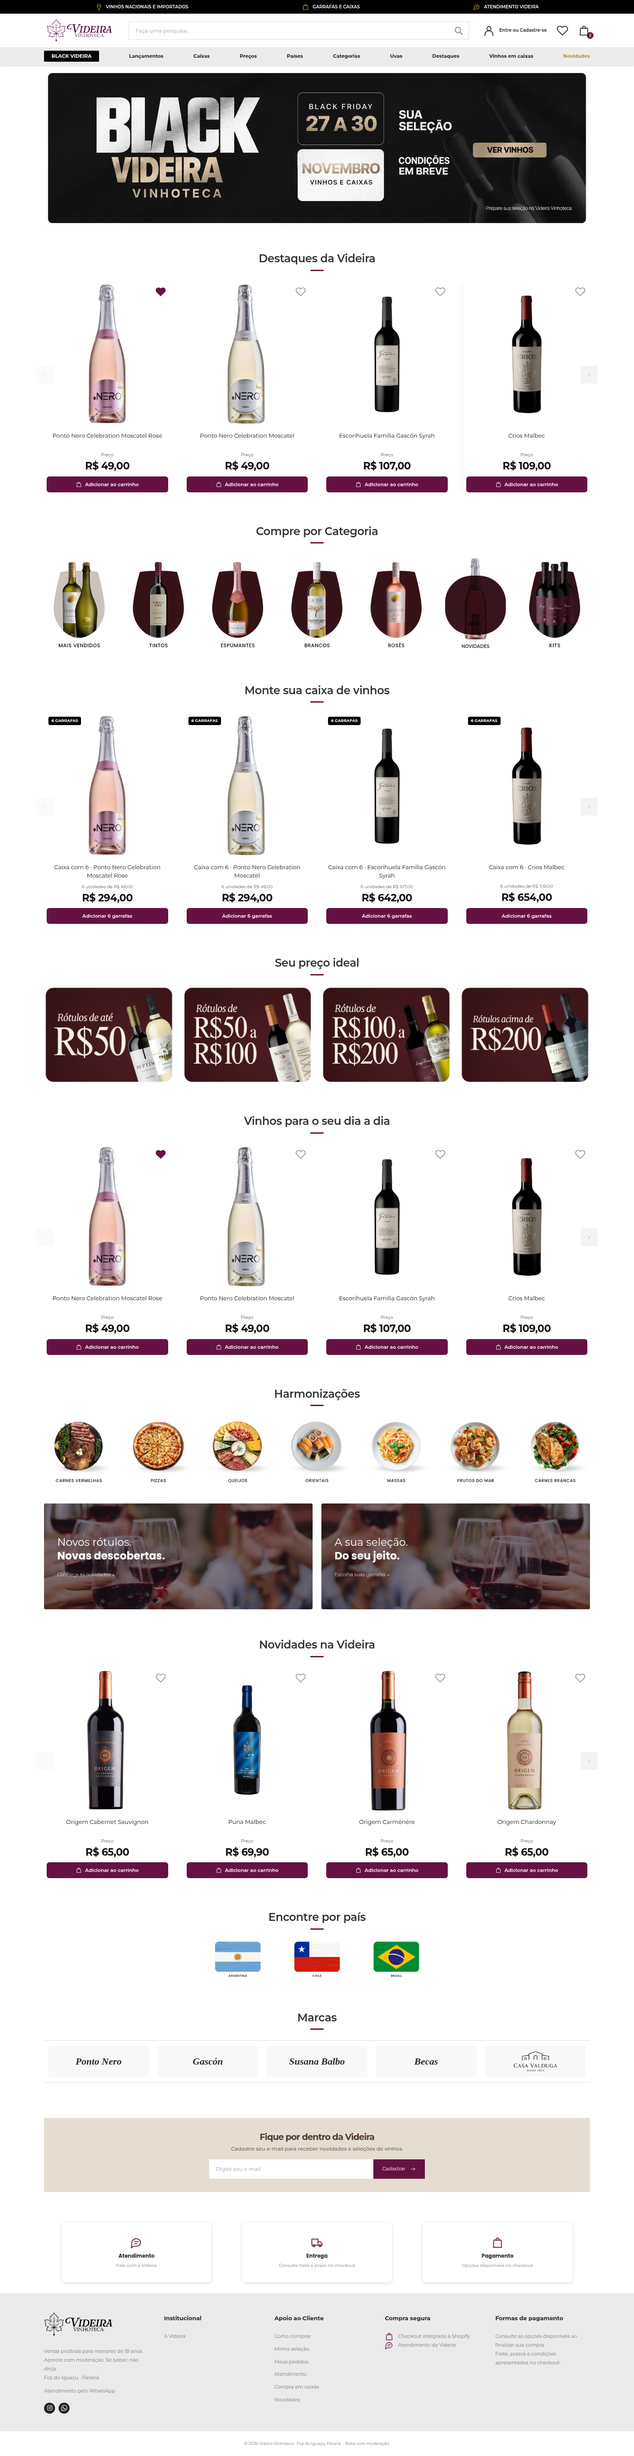
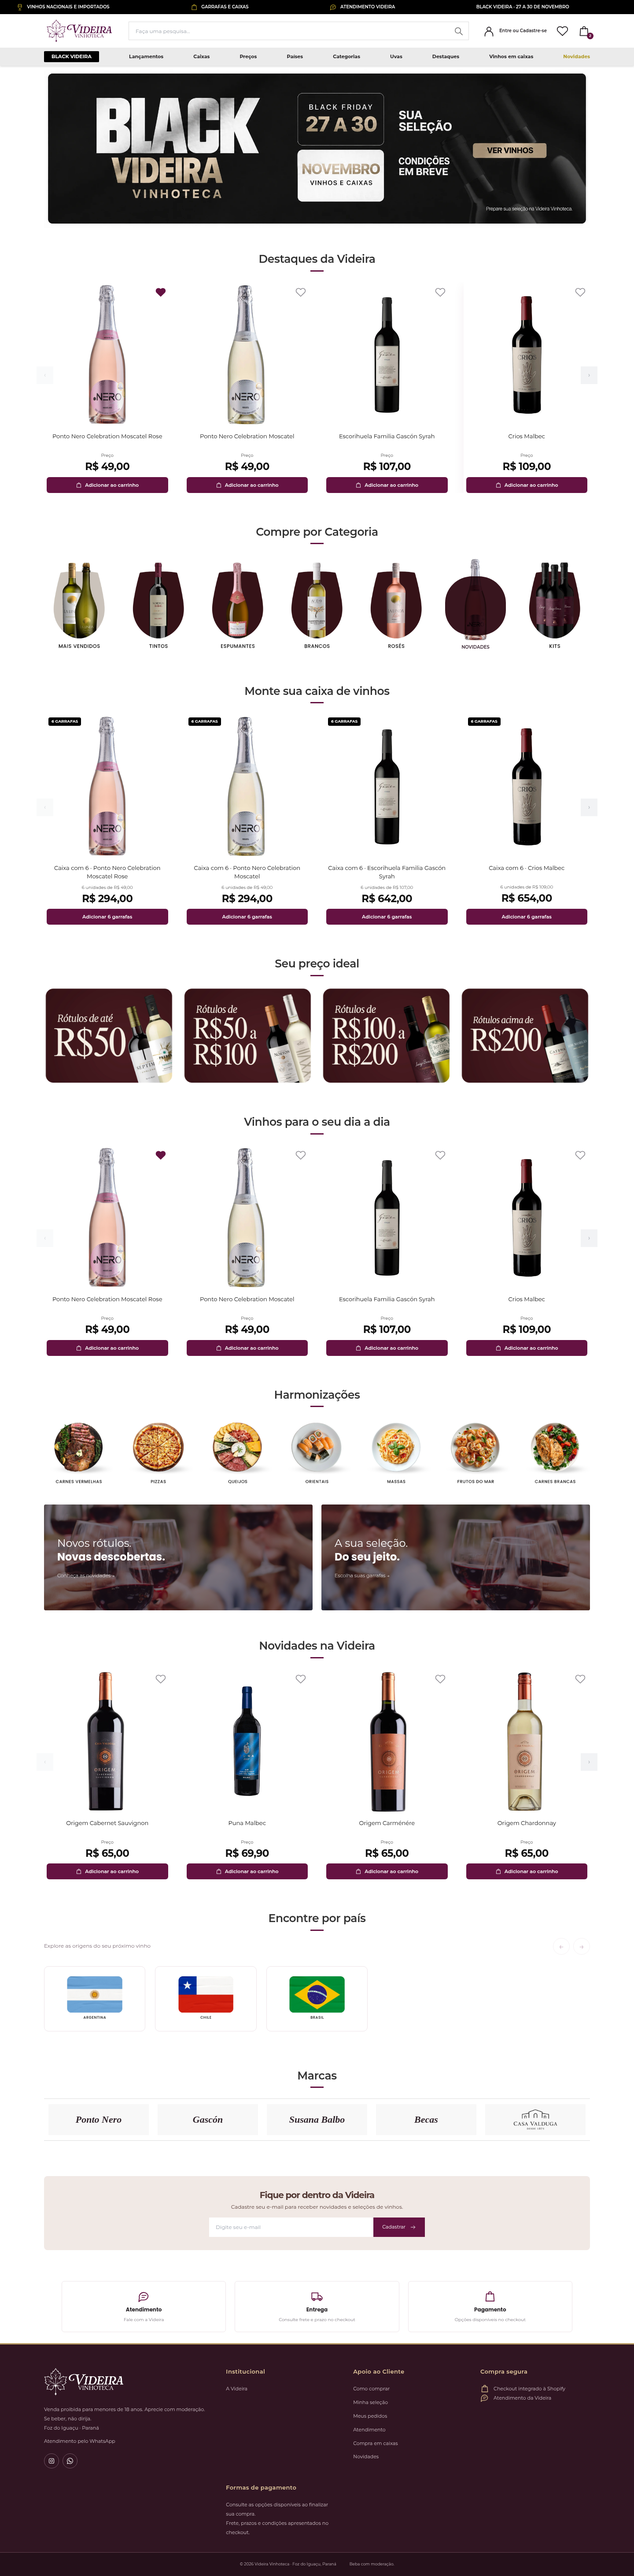
Animate announcements, add extensible country carousel and traditional responsive Videira footer

diff --git a/docs/preview.html b/docs/preview.html
@@ -24,7 +24,7 @@
 
 <script src="preview.js" defer></script></head><body class="storefront zip-videira template-index">
 <a class="sf-skip" href="#conteudo">Pular para o conteúdo</a>
-<div class="shopify-section shopify-section-group-header-group nv-header-section"><div class="zip-perks"><div class="zip-container"><span>
+<div class="shopify-section shopify-section-group-header-group nv-header-section"><div class="zip-perks" aria-label="Informações da Videira"><div class="zip-marquee"><div class="zip-marquee-track"><div class="zip-marquee-set"><span>
 <svg viewBox="0 0 24 24" fill="none" stroke="currentColor" stroke-width="1.6" stroke-linecap="round" stroke-linejoin="round" aria-hidden="true"><path d="M7 3h10l1 7a6 6 0 0 1-12 0l1-7ZM12 16v6m-4 0h8M6 9h12"/></svg>
 
  VINHOS NACIONAIS E IMPORTADOS</span><span>
@@ -33,7 +33,16 @@
  GARRAFAS E CAIXAS</span><span>
 <svg viewBox="0 0 24 24" fill="none" stroke="currentColor" stroke-width="1.6" stroke-linecap="round" stroke-linejoin="round" aria-hidden="true"><path d="M20 11a8 8 0 0 1-8 8H6l-4 3 1-7a8 8 0 1 1 17-4Z"/><path d="M8 10h8M8 14h5"/></svg>
 
- ATENDIMENTO VIDEIRA</span></div></div>
+ ATENDIMENTO VIDEIRA</span><span>BLACK VIDEIRA · 27 A 30 DE NOVEMBRO</span></div><div class="zip-marquee-set" aria-hidden="true"><span>
+<svg viewBox="0 0 24 24" fill="none" stroke="currentColor" stroke-width="1.6" stroke-linecap="round" stroke-linejoin="round" aria-hidden="true"><path d="M7 3h10l1 7a6 6 0 0 1-12 0l1-7ZM12 16v6m-4 0h8M6 9h12"/></svg>
+
+ VINHOS NACIONAIS E IMPORTADOS</span><span>
+<svg viewBox="0 0 24 24" fill="none" stroke="currentColor" stroke-width="1.6" stroke-linecap="round" stroke-linejoin="round" aria-hidden="true"><path d="M5 7h14l1 14H4L5 7Z"/><path d="M9 8V6a3 3 0 0 1 6 0v2"/></svg>
+
+ GARRAFAS E CAIXAS</span><span>
+<svg viewBox="0 0 24 24" fill="none" stroke="currentColor" stroke-width="1.6" stroke-linecap="round" stroke-linejoin="round" aria-hidden="true"><path d="M20 11a8 8 0 0 1-8 8H6l-4 3 1-7a8 8 0 1 1 17-4Z"/><path d="M8 10h8M8 14h5"/></svg>
+
+ ATENDIMENTO VIDEIRA</span><span>BLACK VIDEIRA · 27 A 30 DE NOVEMBRO</span></div></div></div></div>
 <header class="zip-header vn-header"><div class="zip-header-middle zip-container"><a class="zip-logo" href="/" aria-label="Videira Vinhoteca — início">
 <img src="../assets/videira-logo.svg" alt="Videira Vinhoteca" width="180" height="63">
 
@@ -670,8 +679,8 @@ Adicionar ao carrinho</button></form>
 
 </div></div></div><button type="button" class="zip-shelf-next" data-carousel-step="1" aria-label="Próximos vinhos">›</button></div></section>
 
-<section id="paises" class="zip-countries zip-container"><div class="title-ctn zip-title"><h2 class="bg-title"><span>Encontre por país</span></h2></div>
-<div><a href="/search?type=product&amp;q=vendor%3A%22Gasc%C3%B3n%22+OR+vendor%3A%22Susana+Balbo%22+OR+vendor%3A%22Mosquita+Muerta%22+OR+vendor%3A%22Martino%22+OR+vendor%3A%22Puna%22"><img src="../assets/zip-argentina.webp" alt="Argentina" loading="lazy" width="500" height="350"></a><a href="/search?type=product&amp;q=vendor%3A%22Becas%22"><img src="../assets/zip-chile.webp" alt="Chile" loading="lazy" width="500" height="350"></a><a href="/search?type=product&amp;q=vendor%3A%22Casa+Valduga%22+OR+vendor%3A%22Ponto+Nero%22"><img src="../assets/zip-brasil.webp" alt="Brasil" loading="lazy" width="500" height="350"></a></div></section>
+<section id="paises" class="zip-countries zip-container" data-country-carousel><div class="title-ctn zip-title"><h2 class="bg-title"><span>Encontre por país</span></h2></div>
+<div class="zip-country-controls"><span>Explore as origens do seu próximo vinho</span><div><button type="button" data-country-prev aria-label="Países anteriores">←</button><button type="button" data-country-next aria-label="Próximos países">→</button></div></div><div class="zip-country-track" tabindex="0" aria-label="Países — deslize para explorar"><a href="/search?type=product&amp;q=vendor%3A%22Gasc%C3%B3n%22+OR+vendor%3A%22Susana+Balbo%22+OR+vendor%3A%22Mosquita+Muerta%22+OR+vendor%3A%22Martino%22+OR+vendor%3A%22Puna%22"><img src="../assets/zip-argentina.webp" alt="Argentina" loading="lazy" width="500" height="350"></a><a href="/search?type=product&amp;q=vendor%3A%22Becas%22"><img src="../assets/zip-chile.webp" alt="Chile" loading="lazy" width="500" height="350"></a><a href="/search?type=product&amp;q=vendor%3A%22Casa+Valduga%22+OR+vendor%3A%22Ponto+Nero%22"><img src="../assets/zip-brasil.webp" alt="Brasil" loading="lazy" width="500" height="350"></a></div></section>
 <section id="bodegas" class="zip-brands zip-container"><div class="title-ctn zip-title"><h2 class="bg-title"><span>Marcas</span></h2></div>
 <div><a href="/collections/vendors?q=Ponto%20Nero"><span>Ponto Nero</span></a><a href="/collections/vendors?q=Gasc%C3%B3n"><span>Gascón</span></a><a href="/collections/vendors?q=Susana%20Balbo"><span>Susana Balbo</span></a><a href="/collections/vendors?q=Becas"><span>Becas</span></a><a href="/collections/vendors?q=Casa%20Valduga"><img src="../assets/zip-casa-valduga-v2.webp" alt="Casa Valduga" width="270" height="100" loading="lazy"></a><a href="/collections/vendors?q=Mosquita%20Muerta"><img src="../assets/zip-mosquita-muerta-v2.webp" alt="Mosquita Muerta" width="270" height="100" loading="lazy"></a><a href="/collections/vendors?q=Martino"><span>Martino</span></a><a href="/collections/vendors?q=Zuccardi"><span>Zuccardi</span></a><a href="/collections/vendors?q=Puna"><span>Puna</span></a></div></section>
 
@@ -692,8 +701,8 @@ Adicionar ao carrinho</button></form>
 
 <p><strong>Pagamento</strong><span>Opções disponíveis no checkout</span></p></div></div></section>
 
-<footer class="nv-footer"><div class="nv-footer-grid nv-container">
-<details class="zip-footer-group zip-footer-contact" open><summary>Contato</summary><div class="nv-footer-brand">
+<footer class="nv-footer nv-footer-traditional"><div class="nv-footer-grid nv-container">
+<section class="zip-footer-group zip-footer-contact"><h2 class="nv-sr-only">Videira Vinhoteca</h2><div class="nv-footer-brand">
 <img src="../assets/videira-logo.svg" alt="Videira Vinhoteca" width="180" height="63">
 
 <p>Venda proibida para menores de 18 anos. Aprecie com moderação. Se beber, não dirija.</p><small>Foz do Iguaçu · Paraná</small><a href="https://wa.me/5545999056277" target="_blank" rel="noopener">Atendimento pelo WhatsApp</a><div class="nv-footer-social"><a href="https://www.instagram.com/videiravinhoteca/" target="_blank" rel="noopener" aria-label="Instagram da Videira">
@@ -702,17 +711,17 @@ Adicionar ao carrinho</button></form>
 </a><a href="https://wa.me/5545999056277" target="_blank" rel="noopener" aria-label="WhatsApp da Videira">
 <svg viewBox="0 0 16 16" fill="currentColor" aria-hidden="true"><path d="M13.601 2.326A7.85 7.85 0 0 0 8.026 0C3.691 0 .16 3.532.158 7.869a7.84 7.84 0 0 0 1.05 3.933L.09 15.91l4.208-1.103a7.86 7.86 0 0 0 3.725.95h.003c4.334 0 7.865-3.532 7.867-7.869a7.82 7.82 0 0 0-2.292-5.562ZM8.026 14.43h-.003a6.54 6.54 0 0 1-3.332-.912l-.239-.142-2.495.654.666-2.433-.155-.249a6.53 6.53 0 0 1-1.004-3.478c.002-3.617 2.946-6.56 6.565-6.56 1.753 0 3.402.684 4.641 1.923a6.52 6.52 0 0 1 1.921 4.644c-.002 3.617-2.946 6.56-6.565 6.56Zm3.6-4.915c-.197-.099-1.17-.578-1.351-.644-.181-.066-.313-.099-.444.099-.132.197-.51.644-.626.776-.115.132-.23.148-.428.049-.197-.099-.833-.307-1.586-.98-.586-.522-.981-1.166-1.096-1.364-.115-.197-.012-.304.086-.403.089-.088.197-.23.296-.345.099-.115.132-.197.197-.329.066-.132.033-.247-.016-.345-.049-.099-.444-1.071-.609-1.465-.16-.384-.322-.332-.444-.338l-.378-.007a.73.73 0 0 0-.526.247c-.181.197-.691.674-.691 1.645s.707 1.908.806 2.04c.099.132 1.393 2.128 3.375 2.984.471.203.839.324 1.126.415.473.151.904.13 1.244.079.38-.057 1.17-.478 1.335-.939.164-.46.164-.855.115-.938-.049-.082-.181-.132-.378-.23Z"/></svg>
 
-</a></div></div></details>
-<details class="zip-footer-group" open><summary>Institucional</summary><div><a href="/">A Videira</a></div></details>
-<details class="zip-footer-group" open><summary>Apoio ao Cliente</summary><div><a href="/collections/all">Como comprar</a><a href="/cart">Minha seleção</a><a href="/account">Meus pedidos</a><a href="https://wa.me/5545999056277" target="_blank" rel="noopener">Atendimento</a><a href="#caixas">Compra em caixas</a><a href="#novidades">Novidades</a></div></details>
-<details class="zip-footer-group" open><summary>Compra segura</summary><div class="zip-footer-security"><p>
+</a></div></div></section>
+<section class="zip-footer-group"><h2>Institucional</h2><div><a href="/">A Videira</a></div></section>
+<section class="zip-footer-group"><h2>Apoio ao Cliente</h2><div><a href="/collections/all">Como comprar</a><a href="/cart">Minha seleção</a><a href="/account">Meus pedidos</a><a href="https://wa.me/5545999056277" target="_blank" rel="noopener">Atendimento</a><a href="#caixas">Compra em caixas</a><a href="#novidades">Novidades</a></div></section>
+<section class="zip-footer-group"><h2>Compra segura</h2><div class="zip-footer-security"><p>
 <svg viewBox="0 0 24 24" fill="none" stroke="currentColor" stroke-width="1.6" stroke-linecap="round" stroke-linejoin="round" aria-hidden="true"><path d="M5 7h14l1 14H4L5 7Z"/><path d="M9 8V6a3 3 0 0 1 6 0v2"/></svg>
 
 <span>Checkout integrado à Shopify</span></p><p>
 <svg viewBox="0 0 24 24" fill="none" stroke="currentColor" stroke-width="1.6" stroke-linecap="round" stroke-linejoin="round" aria-hidden="true"><path d="M20 11a8 8 0 0 1-8 8H6l-4 3 1-7a8 8 0 1 1 17-4Z"/><path d="M8 10h8M8 14h5"/></svg>
 
-<span>Atendimento da Videira</span></p></div></details>
-<details class="zip-footer-group" open><summary>Formas de pagamento</summary><div><p>Consulte as opções disponíveis ao finalizar sua compra.</p><p>Frete, prazos e condições apresentados no checkout.</p></div></details>
+<span>Atendimento da Videira</span></p></div></section>
+<section class="zip-footer-group"><h2>Formas de pagamento</h2><div><p>Consulte as opções disponíveis ao finalizar sua compra.</p><p>Frete, prazos e condições apresentados no checkout.</p></div></section>
 </div><div class="nv-footer-bottom"><span>© 2026 Videira Vinhoteca · Foz do Iguaçu, Paraná</span><span>Beba com moderação.</span></div></footer>
 
 

diff --git a/assets/videira-zip.css b/assets/videira-zip.css
@@ -8,3 +8,11 @@ html{scroll-padding-top:155px}.storefront.zip-videira{padding:0!important;backgr
 @media(max-width:760px){.zip-videira .nv-newsletter-form{flex-direction:column!important}.zip-videira .nv-newsletter-form input[type=email]{width:100%;flex:auto}.zip-videira .nv-footer-grid{display:block;width:100%;padding:0}.zip-footer-group{border-bottom:1px solid #cfcbd0;padding:0}.zip-footer-group>summary,.zip-footer-contact>summary{display:flex;align-items:center;justify-content:space-between;font-size:12px;padding:22px 16px;margin:0}.zip-footer-group>summary:after{content:'+';font-size:20px;font-weight:400}.zip-footer-group[open]>summary:after{content:'−'}.zip-footer-group>div{padding:0 18px 22px}.zip-footer-contact .nv-footer-brand img{display:none}.zip-footer-group>div>a{font-size:11px}.zip-videira .nv-service-strip>.nv-container{width:calc(100% - 65px)}}
 
 .zip-category-row .zip-new-category{position:relative;display:flex;flex-direction:column;align-items:center;justify-content:flex-end;aspect-ratio:900/1254}.zip-new-category:before{content:'';position:absolute;inset:22% 7% 18%;background:#38151e;border-radius:45% 45% 43% 43%;z-index:0}.zip-category-row .zip-new-category img{position:relative;height:84%;width:100%;object-fit:contain;mix-blend-mode:multiply;z-index:1;aspect-ratio:auto}.zip-new-category span{position:relative;z-index:1;font:600 10px/1.3 Montserrat,sans-serif;height:12%;display:grid;place-items:center}@media(max-width:760px){.zip-new-category span{font-size:8px}}
+
+/* Videira: motion, expandable origins and traditional brand footer. */
+.zip-perks{overflow:hidden}.zip-marquee{width:100%;overflow:hidden}.zip-marquee-track{display:flex;width:max-content;animation:videira-ticker 38s linear infinite}.zip-marquee-set{display:flex;align-items:center;justify-content:space-around;gap:80px;min-width:100vw;padding:8px 40px}.zip-perks:hover .zip-marquee-track,.zip-perks:focus-within .zip-marquee-track{animation-play-state:paused}@keyframes videira-ticker{to{transform:translateX(-50%)}}
+.zip-country-controls{display:flex;justify-content:space-between;align-items:center;gap:20px;margin:-8px 0 22px;color:#7c6a74;font-size:12px}.zip-country-controls>div{display:flex;gap:8px}.zip-country-controls button{width:38px;height:38px;border:1px solid #ddcfd6;border-radius:50%;background:white;color:#651242;font-size:20px}.zip-country-controls button:disabled{opacity:.3;cursor:default}.zip-countries>.zip-country-track{display:flex;flex-wrap:nowrap;justify-content:flex-start;gap:22px;overflow-x:auto;scroll-snap-type:x mandatory;scrollbar-width:thin;scrollbar-color:#b9a0ad transparent;padding:4px 0 16px}.zip-country-track>a{flex:0 0 calc((100% - 88px)/5);width:auto;scroll-snap-align:start;border:1px solid #eee4e9;border-radius:10px;padding:18px;background:#fff;text-align:center;transition:border-color .2s,transform .2s}.zip-country-track>a:hover{border-color:#9d6483;transform:translateY(-3px)}.zip-country-track>a img{width:100%;height:110px;object-fit:contain}.zip-country-card strong,.zip-country-card>span{display:block}.zip-country-card strong{font-size:15px;margin-top:12px}.zip-country-card>span:last-child{font-size:10px;color:#856b79;margin-top:7px}.zip-country-monogram{display:grid!important;place-items:center;background:#f3edf0;color:#651242;border-radius:50%;width:90px;height:90px;margin:10px auto;font:500 30px Georgia,serif}
+.zip-videira .nv-footer-traditional{background:#301522;color:#f9f4f0;border-top:3px solid #b89a63;padding-top:0}.zip-videira .nv-footer-traditional .nv-footer-grid{display:grid;grid-template-columns:1.5fr 1fr 1fr 1fr;gap:40px;padding:52px 0 34px}.nv-footer-traditional .zip-footer-contact{grid-row:span 2}.nv-footer-traditional .zip-footer-group{border:0;padding:0}.nv-footer-traditional .zip-footer-group>div{padding:0}.zip-videira .nv-footer-traditional h2{font:600 13px/1.4 Montserrat,sans-serif!important;letter-spacing:.4px;color:#e3c99e;margin:0 0 20px}.nv-footer-traditional .nv-footer-brand img{filter:none;width:180px;height:65px;margin-bottom:20px;display:block}.zip-videira .nv-footer-traditional p,.zip-videira .nv-footer-traditional small,.zip-videira .nv-footer-traditional .zip-footer-group>div>a{color:#d0c0c8;font-size:11px;line-height:1.9}.nv-footer-traditional .zip-footer-group a:hover{color:#fff;text-decoration:underline}.nv-footer-traditional .nv-footer-social a{width:34px;height:34px;background:transparent;border:1px solid #725463}.nv-footer-traditional .zip-footer-security svg{color:#d8bd8d}.zip-videira .nv-footer-traditional .nv-footer-bottom{background:#24101a;border-top:1px solid #62414e;color:#c5b4bd;padding:20px;gap:30px}.zip-videira .nv-service-strip>.nv-container{gap:20px}.zip-videira .nv-service-strip>.nv-container>div{box-shadow:none;border:1px solid #eee5e9;border-radius:6px;min-height:110px}.zip-videira .nv-newsletter{border-radius:8px;background:#f1e9e5}
+@media(max-width:760px){.zip-marquee-set{gap:45px;min-width:max-content;padding:8px 24px}.zip-marquee-track{animation-duration:27s}.zip-country-controls{font-size:10px;margin:0 0 14px}.zip-country-controls button{width:32px;height:32px}.zip-countries>.zip-country-track{gap:12px;padding-bottom:12px}.zip-country-track>a{flex-basis:42%;padding:12px}.zip-country-track>a img{height:90px}.zip-country-card strong{font-size:13px}.zip-videira .nv-footer-traditional .nv-footer-grid{width:calc(100% - 40px);grid-template-columns:1fr 1fr;gap:30px 20px;padding:34px 0}.nv-footer-traditional .zip-footer-contact{grid-column:1/-1;grid-row:auto;border-bottom:1px solid #634451;padding-bottom:26px}.zip-videira .nv-footer-traditional h2{font-size:12px!important;margin-bottom:14px}.zip-videira .nv-footer-traditional .nv-footer-bottom{gap:7px;padding:20px}.zip-videira .nv-service-strip>.nv-container{width:calc(100% - 28px);grid-template-columns:repeat(3,minmax(0,1fr));gap:8px}.zip-videira .nv-service-strip>.nv-container>div{padding:14px 5px;min-height:118px;gap:6px}.nv-service-strip strong{font-size:10px}.nv-service-strip span{font-size:9px;line-height:1.5}.zip-double-banner{grid-template-columns:1fr;gap:12px}.zip-double-banner>a{height:175px}.zip-double-banner span{font-size:21px;left:22px}.zip-double-banner small{font-size:11px}.zip-videira .zip-shelf{padding-bottom:22px!important}}
+@media(prefers-reduced-motion:reduce){.zip-marquee-track{animation:none}.zip-marquee{overflow-x:auto}.zip-marquee-set[aria-hidden=true]{display:none}.zip-country-track>a{transition:none}}
+.zip-videira .zip-countries>.zip-country-track{flex-wrap:nowrap;justify-content:flex-start;overflow-x:auto;gap:22px}.zip-videira .zip-country-track>a{width:auto;flex-shrink:0}@media(max-width:760px){.zip-videira .zip-countries>.zip-country-track{gap:12px}}

diff --git a/assets/videira-store.js b/assets/videira-store.js
@@ -66,9 +66,18 @@
   document.addEventListener('shopify:section:load',update);
 })();
 (() => {
- const media=matchMedia('(max-width:760px)');
- const setFooter=()=>document.querySelectorAll('.zip-footer-group').forEach(group=>group.open=!media.matches);
- if(document.readyState==='loading')document.addEventListener('DOMContentLoaded',setFooter);else setFooter();
- media.addEventListener('change',setFooter);
- document.addEventListener('shopify:section:load',setFooter);
+ const initialize = (scope = document) => scope.querySelectorAll('[data-country-carousel]').forEach(section => {
+  if (section.dataset.ready) return;
+  section.dataset.ready = 'true';
+  const track = section.querySelector('.zip-country-track');
+  const prev = section.querySelector('[data-country-prev]');
+  const next = section.querySelector('[data-country-next]');
+  const update = () => { prev.disabled = track.scrollLeft < 2; next.disabled = track.scrollLeft + track.clientWidth >= track.scrollWidth - 2; };
+  const move = direction => track.scrollBy({left: direction * Math.max(180, track.clientWidth * .75), behavior: matchMedia('(prefers-reduced-motion: reduce)').matches ? 'instant' : 'smooth'});
+  prev.addEventListener('click', () => move(-1)); next.addEventListener('click', () => move(1));
+  track.addEventListener('scroll', update, {passive:true});
+  new ResizeObserver(update).observe(track); new MutationObserver(update).observe(track, {childList:true}); update();
+ });
+ if(document.readyState === 'loading') document.addEventListener('DOMContentLoaded', () => initialize()); else initialize();
+ document.addEventListener('shopify:section:load', event => initialize(event.target));
 })();

diff --git a/README.md b/README.md
@@ -19,3 +19,9 @@ Preços, variantes, estoque, carrinho e checkout usam Shopify. Favoritos ficam n
 - [Design](docs/design.md), [validação](docs/validacao.md) e [testes](tests/README.md).
 
 O ZIP contém somente pastas do tema. O repositório antigo Shopify-Videira não foi alterado.
+
+## Interação e adaptação
+
+A faixa superior desliza continuamente e respeita a preferência de redução de movimento. Países usam carrossel com gesto de arrastar e botões; adicione blocos **País** na seção Loja ZIP para incluir nome, imagem e coleção de destino. Ao adicionar o primeiro bloco, cadastre também os países existentes que deseja manter.
+
+O rodapé tradicional apresenta links sempre visíveis, identidade bordô e contatos da Videira. No celular, organiza-se em duas colunas; banners editoriais ficam empilhados e os serviços ocupam uma faixa compacta. No computador, o rodapé e os banners usam colunas mais amplas.

diff --git a/docs/validacao.md b/docs/validacao.md
@@ -8,3 +8,5 @@
 - Capturas reais em preview-desktop.png e preview-mobile.png. Dados e fotos da prévia são um retrato público do catálogo Videira.
 
 Os testes locais usam LiquidJS e um servidor que simula endpoints Shopify. Não validam pagamento, frete, inscrição real na newsletter ou configurações da loja. Esses fluxos exigem a prévia Shopify e pedido de teste. Não houve publicação direta na loja.
+
+Revisão de interação: Chromium verificou o movimento real da faixa superior, rolagem dos países com dez itens simulados, rodapé com links visíveis sem acordeões e ausência de transbordamento horizontal em 1440 e 390 px. Os países extras do teste não fazem parte do catálogo publicado.
